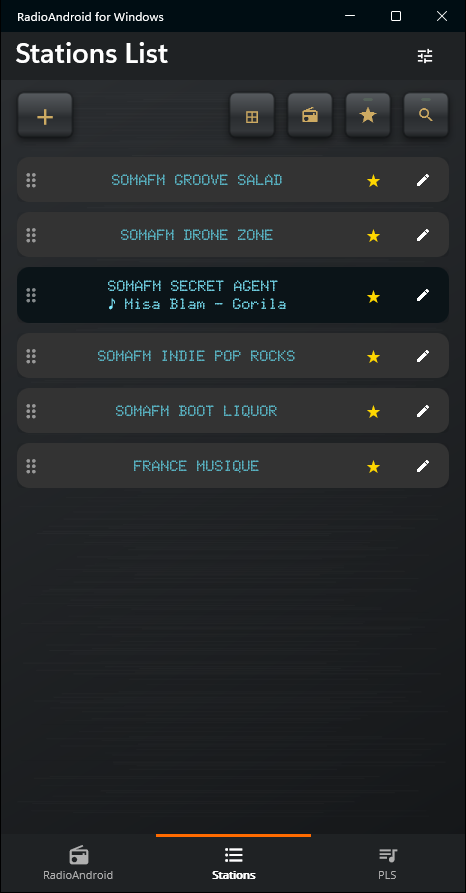
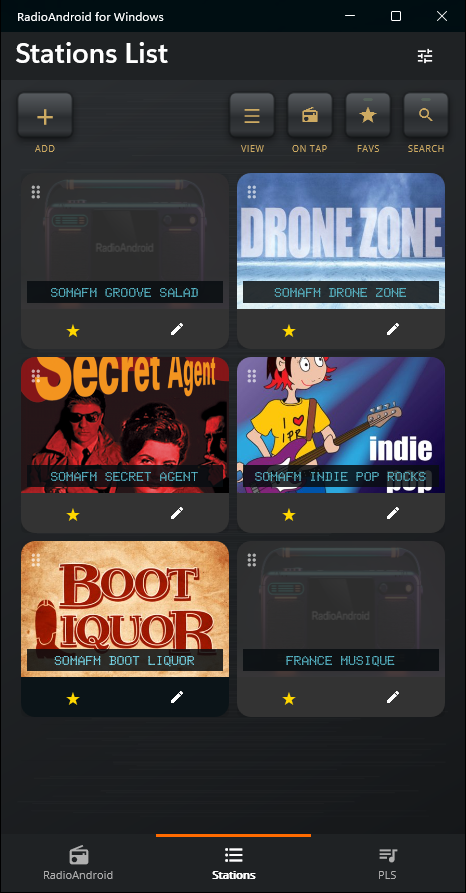
0.2.0 rebuilt with the Android 6.7.4-6.7.5 fixes: new zip hash, list screenshot with key captions
The zip's SHA-256 is now 0F61F8EA...DC346F7C (key captions as on real gear,
Help without the station-submission section). The Vintage station-list
screenshot shows the engraved captions under the keys.

Claude-Session: https://claude.ai/code/session_01LWKtRgRjGeV7hSPTtMRS38

diff --git a/docs/index.html b/docs/index.html
@@ -397,7 +397,7 @@ footer { padding:44px 28px; text-align:center; border-top:1px solid var(--border
           <p class="shot-tag">Vintage · black</p>
         </div>
         <div class="screenshot-item">
-          <img src="16-vintage-stacje.png" alt="Station list in the Vintage style: dot-matrix names, the playing station on dark glass, metal keys" loading="lazy"/>
+          <img src="16-vintage-stacje.png" alt="Station list in the Vintage style: dot-matrix names, metal keys with engraved captions under them" loading="lazy"/>
           <p class="shot-tag">Vintage · station list</p>
         </div>
       </div>
@@ -449,7 +449,7 @@ footer { padding:44px 28px; text-align:center; border-top:1px solid var(--border
         <a href="https://github.com/toevi/RadioAndroid-Windows-Release/releases/latest" class="btn btn-primary" target="_blank">⬇ Download from GitHub</a>
         <div class="hashbox">
           <b>0.2.0 · RadioAndroid-for-Windows-Setup.zip · 63 MB</b><br/>
-          SHA-256 of the zip <code>DFBD56187FDF6BED4517E8352F326DF261C01136445D5A81E96BCADA21CDBF5C</code><br/>
+          SHA-256 of the zip <code>0F61F8EA8772B3094698DD3C64CCE59FF7341B4C47708243E75DBFCBDC346F7C</code><br/>
           <span style="color:#5b6a7d">Check it in PowerShell before installing:
           <code style="color:#8fa3ba">Get-FileHash RadioAndroid-for-Windows-Setup.zip</code> — the result must match
           character for character. The same hash is in the release notes on GitHub.</span>
